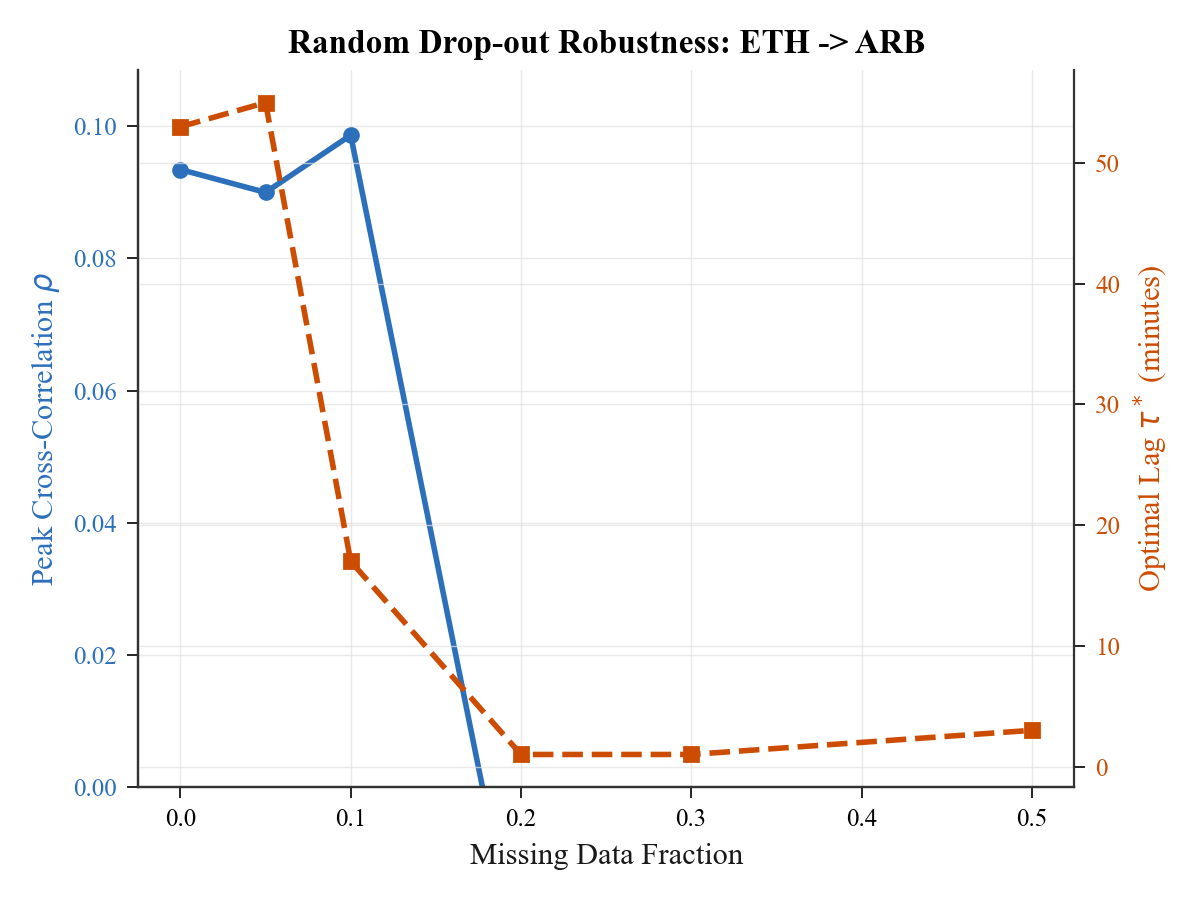
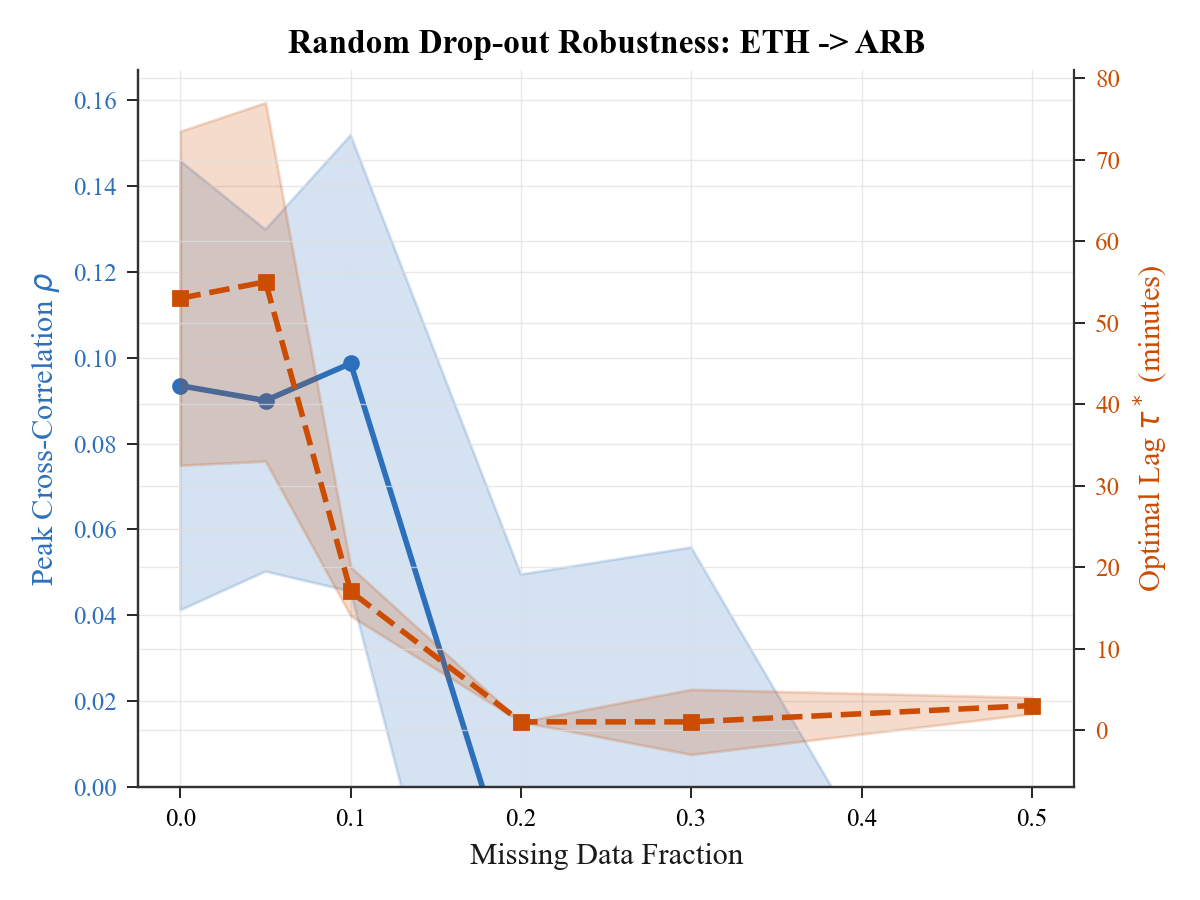
added uncertainty

diff --git a/pipeline/visualisation.py b/pipeline/visualisation.py
@@ -141,7 +141,7 @@ def plot_ccf_correlogram(
         ax.axvline(0, color="#999999", linewidth=0.5, linestyle="--", alpha=0.5)
 
         # 95% confidence band (approx 2/sqrt(N))
-        n_obs = len(corrs)  # approximate
+        n_obs = epoch.get("n_obs", 43200)  # exact from signal_processing if available, else approx for 30-day epoch
         ci = 1.96 / np.sqrt(max(n_obs, 1))
         ax.axhspan(-ci, ci, color=PALETTE["light_fill"], alpha=0.35, zorder=0,
                     label="95% CI")
@@ -709,6 +709,8 @@ def plot_robustness_comparison(
     fractions = []
     opt_lags = []
     corrs = []
+    lags_std = []
+    corrs_std = []
     
     if results.get("baseline"):
         bl_lags = [ep.optimal_lag for ep in results["baseline"]]
@@ -719,6 +721,8 @@ def plot_robustness_comparison(
         fractions.append(0.0)
         opt_lags.append(bl_lag_mode)
         corrs.append(bl_corr_mean)
+        lags_std.append(np.std(bl_lags))
+        corrs_std.append(np.std(bl_corrs))
         
     random_res = results.get("random", {})
     for frac_str in sorted(random_res.keys(), key=float):
@@ -733,6 +737,8 @@ def plot_robustness_comparison(
             fractions.append(frac)
             opt_lags.append(l_mode)
             corrs.append(np.mean(c_vals))
+            lags_std.append(np.std(l_vals))
+            corrs_std.append(np.std(c_vals))
             
     fig, ax1 = plt.subplots(figsize=(6, 4.5))
     
@@ -740,14 +746,16 @@ def plot_robustness_comparison(
     ax1.set_xlabel("Missing Data Fraction")
     ax1.set_ylabel("Peak Cross-Correlation $\\rho$", color=color)
     ax1.plot(fractions, corrs, marker="o", linestyle="-", color=color, linewidth=2)
+    ax1.fill_between(fractions, np.array(corrs) - np.array(corrs_std), np.array(corrs) + np.array(corrs_std), color=color, alpha=0.2, label="$\pm 1 \sigma$ (Correlation)")
     ax1.tick_params(axis='y', labelcolor=color)
     if corrs:
-        ax1.set_ylim(0, max(corrs) * 1.1)
+        ax1.set_ylim(0, max(np.array(corrs) + np.array(corrs_std)) * 1.1)
     
     ax2 = ax1.twinx()  
     color2 = PALETTE["secondary"]
     ax2.set_ylabel("Optimal Lag $\\tau^*$ (minutes)", color=color2)  
     ax2.plot(fractions, opt_lags, marker="s", linestyle="--", color=color2, linewidth=2)
+    ax2.fill_between(fractions, np.array(opt_lags) - np.array(lags_std), np.array(opt_lags) + np.array(lags_std), color=color2, alpha=0.2, label="$\pm 1 \sigma$ (Lag)")
     ax2.tick_params(axis='y', labelcolor=color2)
     
     ax2.spines['right'].set_visible(True)

diff --git a/pipeline/signal_processing.py b/pipeline/signal_processing.py
@@ -31,6 +31,7 @@ class CCFResult:
 
     epoch_start: int  # Unix timestamp
     epoch_end: int
+    n_obs: int        # number of observations
     optimal_lag: int  # minutes
     peak_correlation: float
     lags: NDArray[np.int64]
@@ -155,6 +156,7 @@ def rolling_ccf(
                 CCFResult(
                     epoch_start=int(start),
                     epoch_end=int(epoch_end),
+                    n_obs=len(x),
                     optimal_lag=int(opt_lag),
                     peak_correlation=float(peak_corr),
                     lags=lags,
